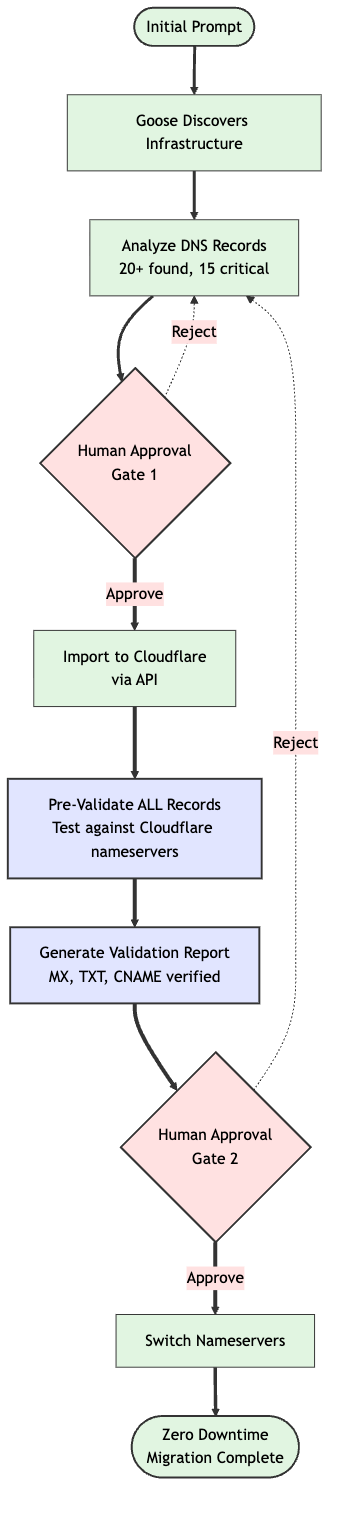
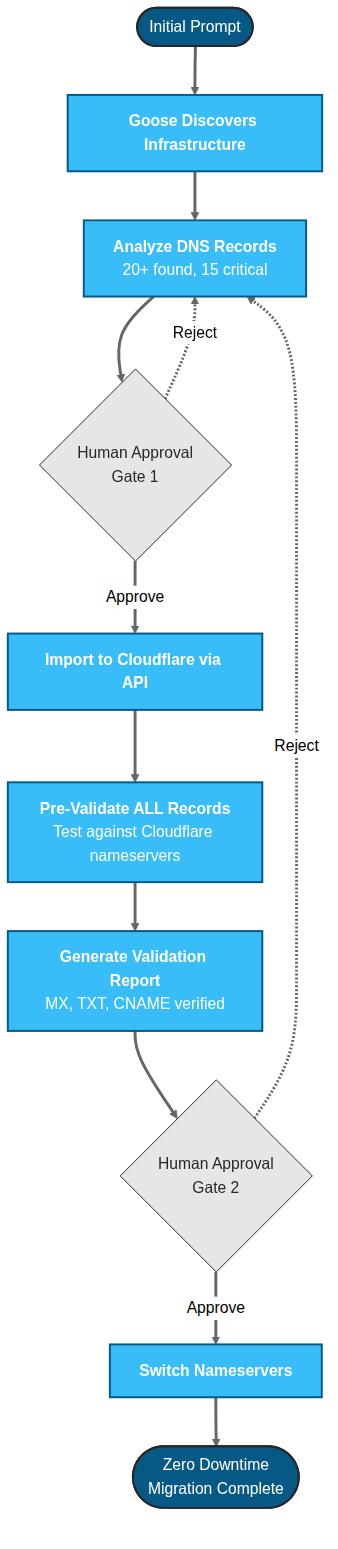
docs(blog): add source diagrams for DNS migration post
- Add migration-workflow.mmd with proper approval gate flow
- Add infrastructure-comparison.mmd with side-by-side BEFORE/AFTER
- Regenerate both PNGs with improved styling
- Update modDatetime to 2026-01-21T19:27:00Z

diff --git a/src/data/blog/zero-downtime-dns-migration.md b/src/data/blog/zero-downtime-dns-migration.md
@@ -1,7 +1,7 @@
 ---
 title: "Migrating to Cloudflare Pages: One Prompt, Zero Manual Work"
 pubDatetime: 2025-11-06T12:00:00Z
-modDatetime: 2026-01-19T02:29:10Z
+modDatetime: 2026-01-21T19:27:00Z
 description: "Migrate to Cloudflare Pages with zero downtime. AI-assisted DNS, hosting, and CI/CD migration with pre-validated testing. Real metrics."
 tags:
   - automation
